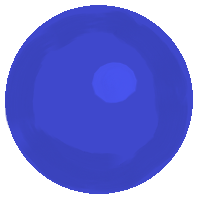
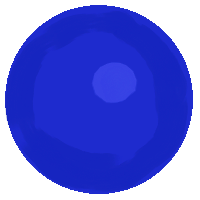
9

diff --git a/Zuma/src/balls/ball/BallControl.xaml b/Zuma/src/balls/ball/BallControl.xaml
@@ -6,7 +6,9 @@
     xmlns:d="http://schemas.microsoft.com/expression/blend/2008"
     xmlns:local="clr-namespace:Zuma.src.balls.ball"
     mc:Ignorable="d"
-    d:DesignHeight="450"
-    d:DesignWidth="800">
-    
+    d:DesignHeight="50"
+    d:DesignWidth="50 "
+    Width="{ Binding Width }"
+    Height="{ Binding Height }"
+    Background="{Binding Sprite }">
 </UserControl>

diff --git a/Zuma/src/balls/ball/BallViewModel.cs b/Zuma/src/balls/ball/BallViewModel.cs
@@ -1,8 +1,32 @@
-namespace Zuma.src.balls.ball
+using System.ComponentModel;
+using System.Windows;
+using System.Windows.Media;
+
+namespace Zuma.src.balls.ball
 {
-    public class BallViewModel
+    public class BallViewModel : INotifyPropertyChanged
     {
-        public int Width => 50;
-        public int Height => 50;
+        private readonly Ball ball;
+
+        public int Width => 25;
+        public int Height => 25;
+        public ImageBrush Sprite => new ImageBrush(ball.Sprite);
+        public Point Coordinates
+        {
+            get => ball.Coordinates;
+            set
+            {
+                ball.Coordinates = value;
+                OnPropertyChanged(nameof(Coordinates));
+            }
+        }
+
+        public BallViewModel(Ball ball)
+        {
+            this.ball = ball;
+        }
+
+        public event PropertyChangedEventHandler PropertyChanged;
+        protected virtual void OnPropertyChanged(string propertyName) => PropertyChanged?.Invoke(this, new PropertyChangedEventArgs(propertyName));
     }
 }

diff --git a/Zuma/src/level/LevelViewModel.cs b/Zuma/src/level/LevelViewModel.cs
@@ -2,6 +2,8 @@
 using System.Windows;
 using System.Windows.Controls;
 using System.Windows.Media;
+using System.Windows.Media.Imaging;
+using Zuma.src.balls.ball;
 using Zuma.src.frog;
 using Zuma.src.helpers;
 
@@ -43,6 +45,20 @@ namespace Zuma.src.level
         }
 
         public void ShootBall(Point mouseCoordinates)
+        {
+            var ballStartingPoint = new Point(FrogCoordinates.X + 50, FrogCoordinates.Y + 50);
+
+            var ballSprite = new BitmapImage(new System.Uri("pack://application:,,,/resources/images/balls/blue_ball_1.png"));
+            var ball = new Ball(ballSprite, ballStartingPoint);
+            var ballControl = new BallControl(new BallViewModel(ball));
+
+            Canvas.SetLeft(ballControl, ballStartingPoint.X);
+            Canvas.SetTop(ballControl, ballStartingPoint.Y);
+
+            levelCanvas.Children.Add(ballControl);
+        }
+
+        public void MoveBallInDirection(UIElement ballControl, Point vectorEnd)
         {
 
         }

diff --git a/Zuma/src/balls/ball/BallControl.xaml.cs b/Zuma/src/balls/ball/BallControl.xaml.cs
@@ -1,17 +1,4 @@
-using System;
-using System.Collections.Generic;
-using System.Linq;
-using System.Text;
-using System.Threading.Tasks;
-using System.Windows;
-using System.Windows.Controls;
-using System.Windows.Data;
-using System.Windows.Documents;
-using System.Windows.Input;
-using System.Windows.Media;
-using System.Windows.Media.Imaging;
-using System.Windows.Navigation;
-using System.Windows.Shapes;
+using System.Windows.Controls;
 
 namespace Zuma.src.balls.ball
 {
@@ -20,9 +7,15 @@ namespace Zuma.src.balls.ball
     /// </summary>
     public partial class BallControl : UserControl
     {
-        public BallControl()
+        public BallViewModel ViewModel { get; private set; }
+
+        public BallControl(BallViewModel ballViewModel)
         {
             InitializeComponent();
+
+            ViewModel = ballViewModel;
+
+            DataContext = ViewModel;
         }
     }
 }

diff --git a/Zuma/src/models/balls/AbstractBall.cs b/Zuma/src/models/balls/AbstractBall.cs
@@ -5,8 +5,8 @@ namespace Zuma.src.models.balls
 {
     public abstract class AbstractBall : IBall
     {
-        public Point Coordinates { get; private set; }
-        public Path ThePath { get; private set; }
+        public Point Coordinates { get; protected set; }
+        public Path ThePath { get; protected set; }
 
         public abstract void Dissapear();
         public abstract void Freeze();

diff --git a/Zuma/src/balls/ball/Ball.cs b/Zuma/src/balls/ball/Ball.cs
@@ -1,6 +1,14 @@
-namespace Zuma.src.balls.ball
+using System.Windows;
+using System.Windows.Media.Imaging;
+
+namespace Zuma.src.balls.ball
 {
-    public class Ball
+    public class Ball : AbstractBall
     {
+        public Ball(BitmapImage sprite, Point coordinates)
+        {
+            Sprite = sprite;
+            Coordinates = coordinates;
+        }
     }
 }

diff --git a/Zuma/src/balls/AbstractBall.cs b/Zuma/src/balls/AbstractBall.cs
@@ -1,0 +1,11 @@
+using System.Windows;
+using System.Windows.Media.Imaging;
+
+namespace Zuma.src.balls
+{
+    public abstract class AbstractBall
+    {
+        public Point Coordinates { get; set; }
+        public BitmapImage Sprite { get; protected set; }
+    }
+}
